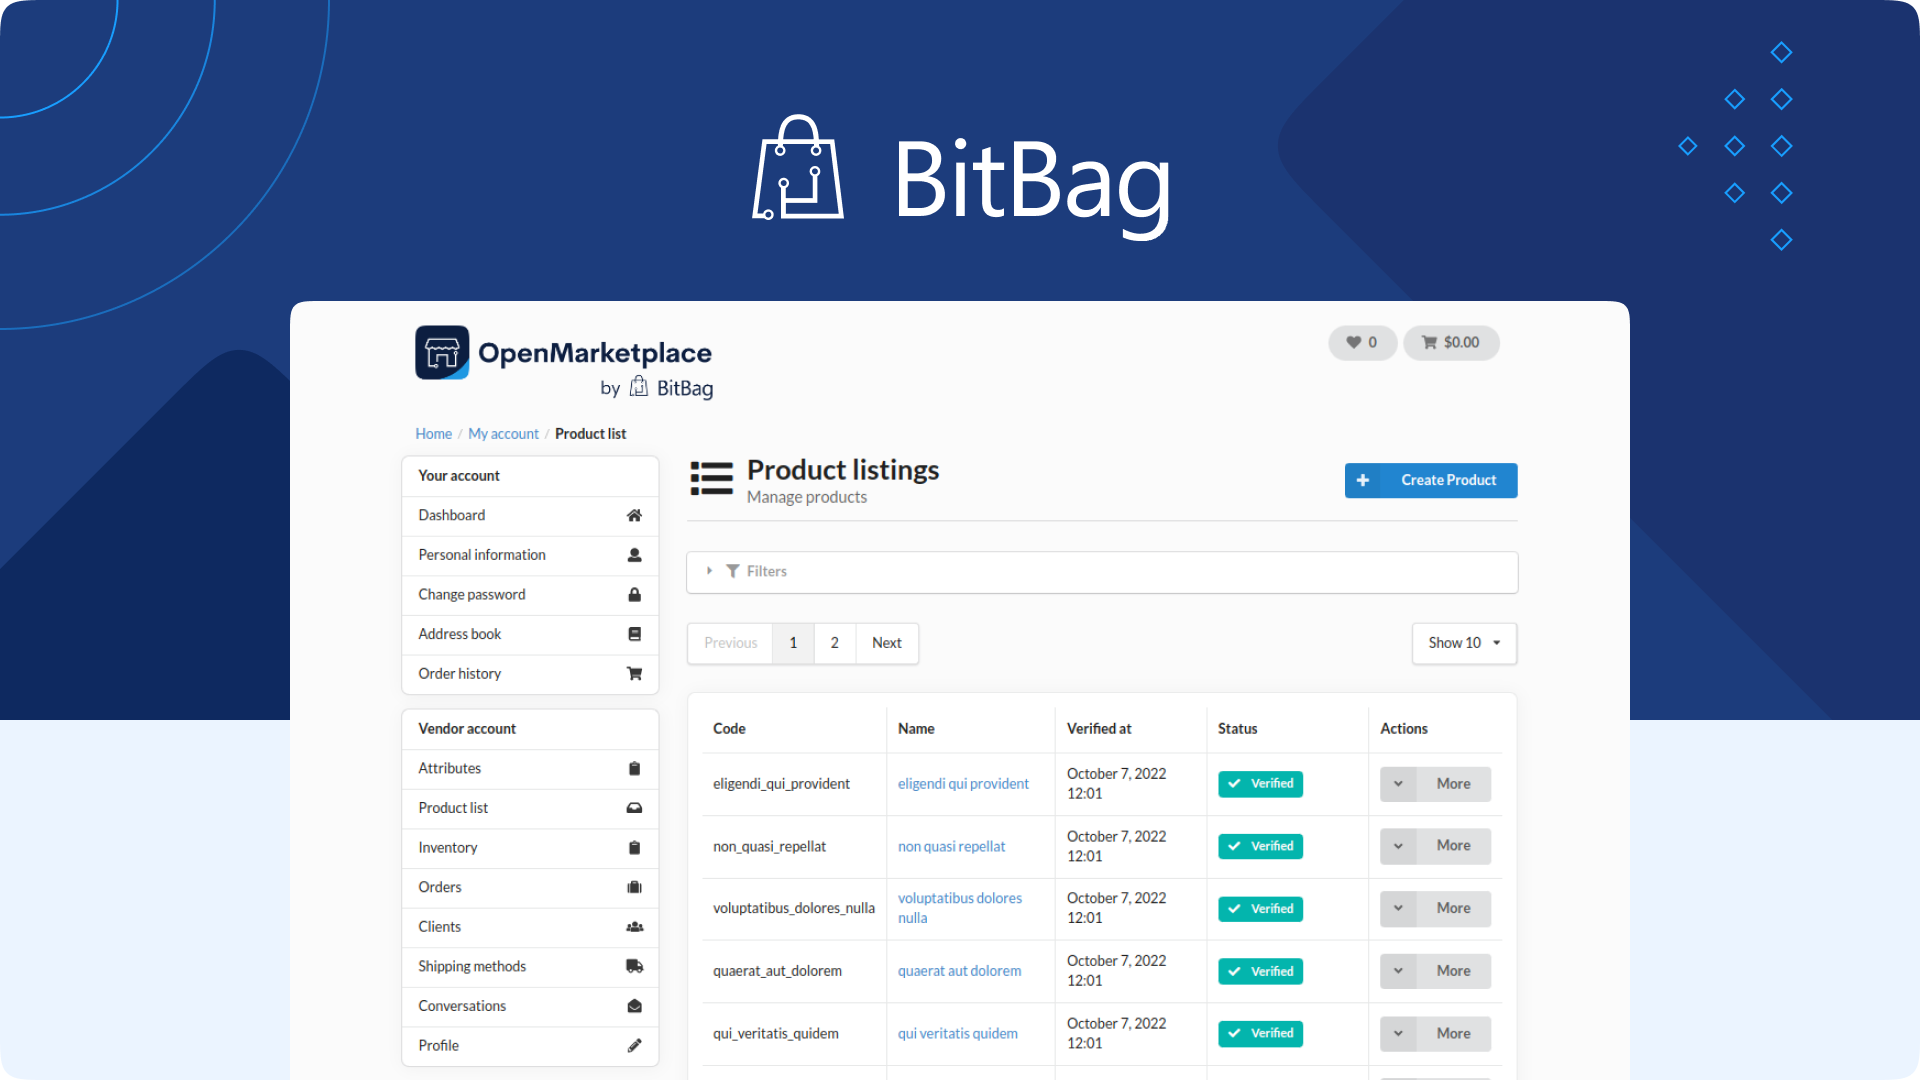
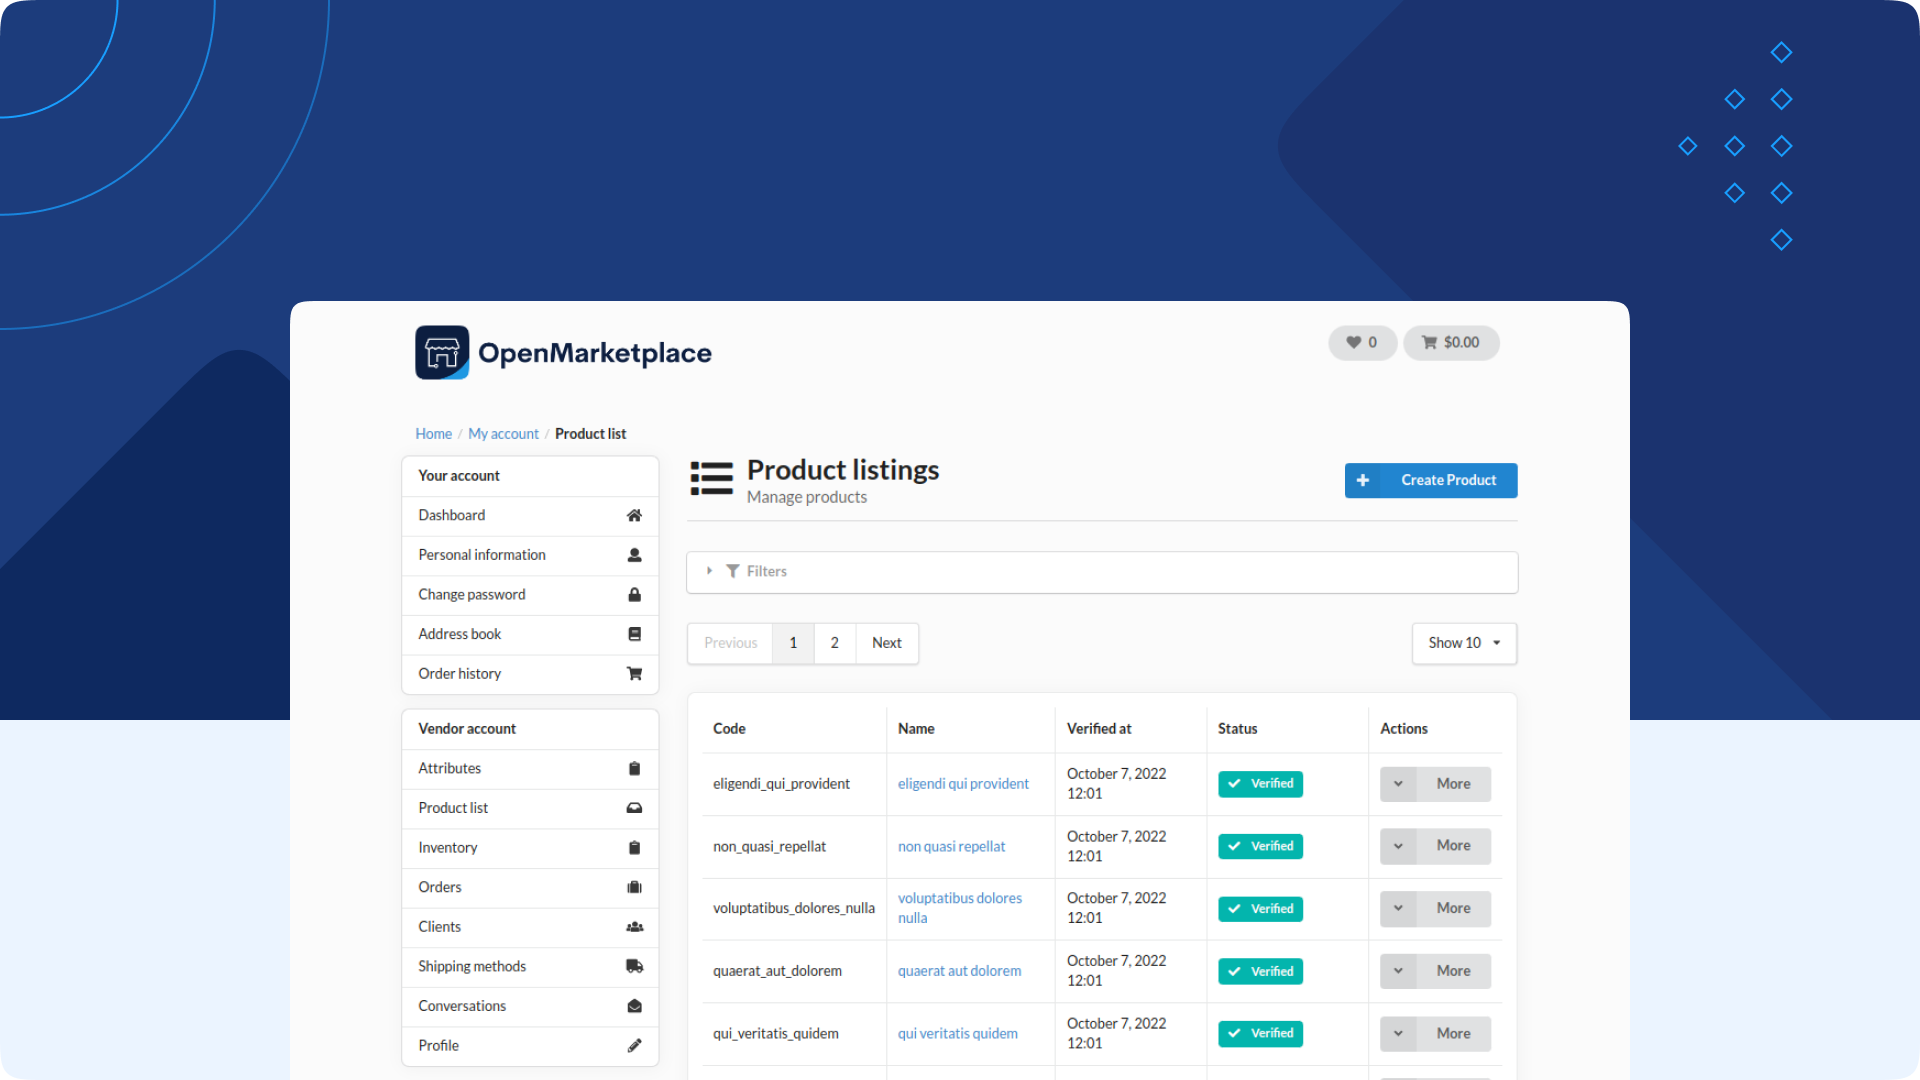
[WIP] Remove BitBag branding

Changed region(s): [[0.4688, 0.1222, 0.625, 0.2139], [0.375, 0.0917, 0.4375, 0.2139], [0.3125, 0.3361, 0.375, 0.3667]]

diff --git a/README.md b/README.md
@@ -1,36 +1,13 @@
-<p align="center">
-    <a href="https://bitbag.io/" target="_blank">
-        <img src="doc/images/open-marketplace-logo.png" />
-    </a>
-</p>
+![Open Marketplace logo](doc/images/open-marketplace-logo.png)
 
-<p>
-    <a href="https://github.com/BitBagCommerce/OpenMarketplace/actions">
-        <img src="https://img.shields.io/github/actions/workflow/status/BitBagCommerce/OpenMarketplace/build.yml?branch=master" alt="Build">
-    </a>
-    <a href="https://join.slack.com/t/openmarketplacegroup/shared_invite/zt-1ks2kfsqe-w_J2uqgTMNEAYQS0xa8Q8Q">
-        <img src="https://img.shields.io/badge/chat-on%20slack-e51670.svg" alt="Chat">
-    </a>
-    <a href="https://bitbag.io/contact-us">
-        <img src="https://img.shields.io/badge/support-contact%20author-blue" alt="Contact">
-    </a>
-</p>
+**Please note: this project is being reborn from ashes at the moment! Many links point to the deleted repository owned by BitBagCommerce for now, but this will be changed.**
 
-Official website: http://open-marketplace.io </br>
-Demo: http://demo.open-marketplace.io
+Open Marketplace is the first open-source marketplace platform. The solution is based on Sylius, Symfony and Semantic UI meaning it is fully compatible with each. The platform is a highly customizable project made using full-stack BDD with Behat and PHPSpec.
 
-BitBag OpenMarketplace is the first open-source marketplace platform. The solution is based on Sylius, Symfony and Semantic UI meaning it is fully compatible with each. The platform is highly customizable project made using full-stack BDD with Behat and PHPSpec.
-
-Like what we do? Give us a star! ⭐
-
-Looking for a professional team to build a MVM for your business on top of open-source? [Contact us!](https://bitbag.io/contact-us)
+Like this project? Give us a star! ⭐
 
 ---
-<p align="center">
-    <a href="https://bitbag.io/" target="_blank">
-        <img src="doc/images/overview.png" />
-    </a>
-</p>
+![Open Marketplace admin panel](doc/images/overview.png)
 
 # Table of Contents
 
@@ -59,7 +36,7 @@ Looking for a professional team to build a MVM for your business on top of open-
 
 ## Customization
 
-Our project is highly customizable, [here](./doc/how_to_customize.md) is our guide on how to do it.
+This project is highly customizable, [here](./doc/how_to_customize.md) is our guide on how to do it.
 
 ## Contribution
 
@@ -67,26 +44,17 @@ Every contribution is meaningful, kudos to everyone who helped us with developin
 
 ## We are here to help
 
-This **open-source project was developed to help the Sylius community**. If you have any additional questions, would like help with installing or configuring the plugin, or need any assistance with your Sylius project - let us know! For community support, join the official [OpenMarketplace Community Slack](https://join.slack.com/t/openmarketplacegroup/shared_invite/zt-1vejiwrbn-XZkLwRH5L0s4L9~qfkcP~g).
+This **open-source project was developed to help the Sylius community**.
+We have no dedicated support channel (yet?), but for community support, feel free to join the official [Sylius Community Slack](https://sylius.com/slack) and ask your questions in **#support** channel there.
 
-If you want to participate in the development, you can do it by submitting [pull requests](https://github.com/BitBagCommerce/OpenMarketplace/pulls) or reporting [issues](https://github.com/BitBagCommerce/OpenMarketplace/issues).
-
-## About BitBag
-
-BitBag is a Software House working on digital commerce projects on top of best open-source technologies, such as Sylius, Shopware, Pimcore, Symfony and Vue Storefront. We work with worldwide companies who see eCommerce as an important factor of their strategy.
-
-If you think we could help your business within the above-mentioned technology stack, contact us directly. We could be the right people to do the job. Fill the form on [this site](https://bitbag.io/contact-us/) or send us an e-mail at hello@bitbag.io.
+If you want to participate in the development, you can do it by submitting [pull requests](./pulls) or reporting [issues](./issues).
 
 ## License
 
 This project's source code is completely free and released under the terms of the MIT license.
 
-## Authors
+## Credits & Authors
+
+Open Marketplace was originally developed and open-sourced by [BitBag](https://bitbag.io/), a Software House from Poland.
 
 See the full list of contributors [here](https://github.com/BitBagCommerce/OpenMarketplace/contributors).
-
-## Contact
-
-You can contact us using the contact form on [our website](https://bitbag.io/contact-us/) or send us an e-mail to hello@bitbag.io with your question(s). We are also active on the [community Slack](https://join.slack.com/t/openmarketplacegroup/shared_invite/zt-1ij1t41wx-HfAR6~URm3OAcqm0jc423Q).
-
-[![](https://bitbag.io/wp-content/uploads/2021/08/badges-bitbag.png)](https://bitbag.io/contact-us/)
